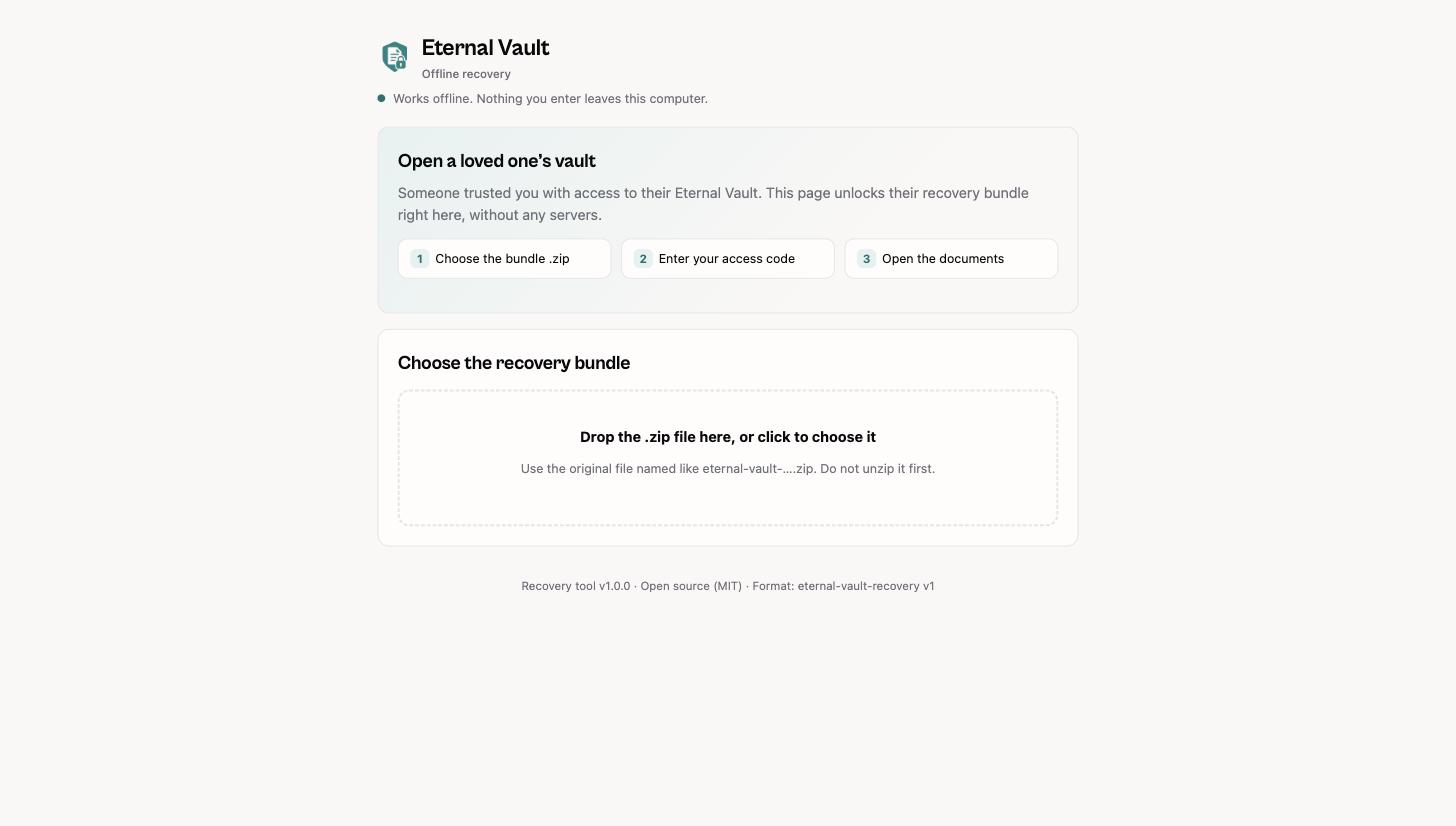
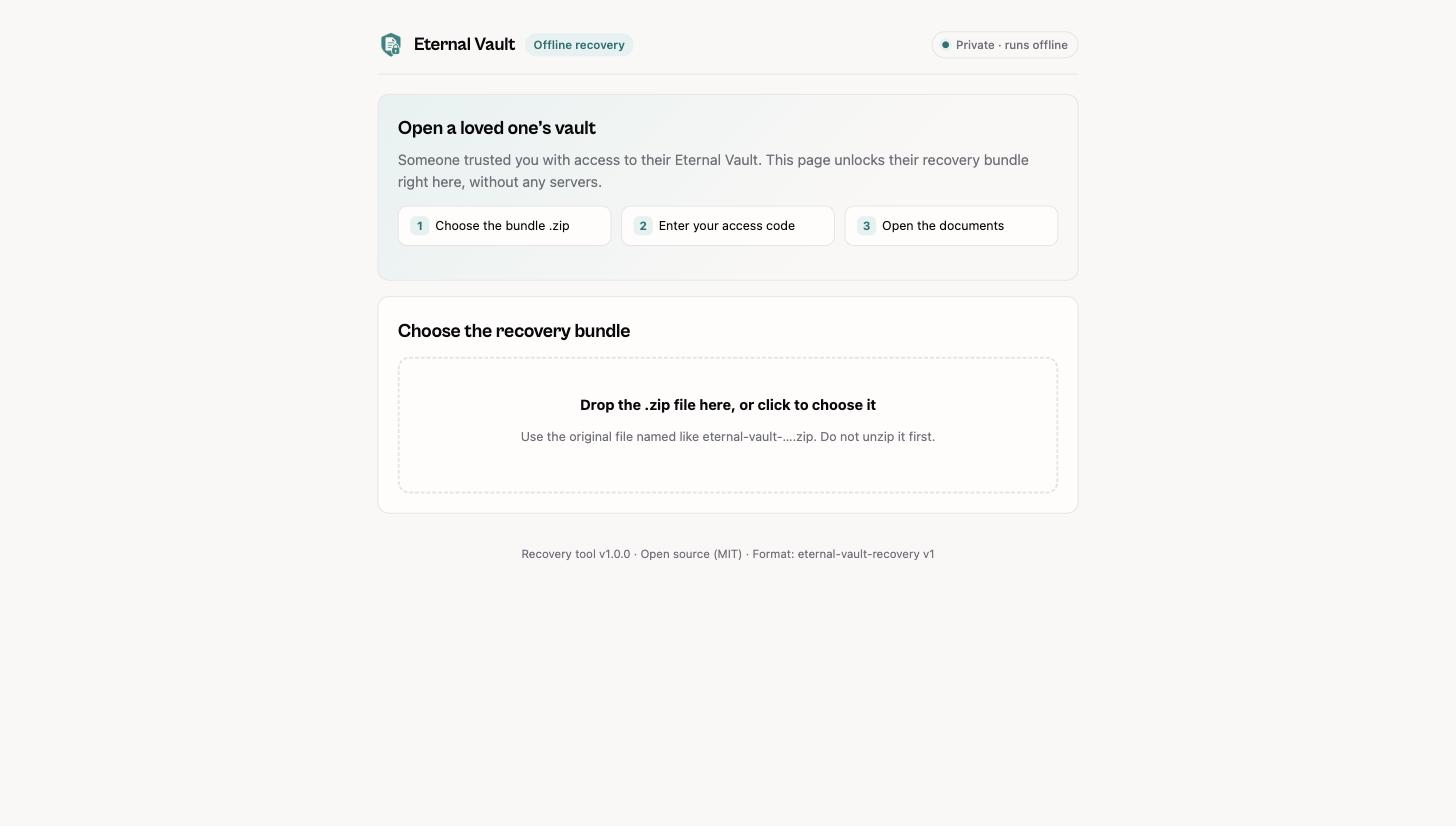
style: :lipstick: compact header bar with brand lockup and offline status badge

diff --git a/src/app/styles.css b/src/app/styles.css
@@ -97,21 +97,73 @@ p {
   margin-top: 16px;
 }
 
-.notice {
+.topbar {
   display: flex;
-  gap: 8px;
   align-items: center;
-  font-size: 13px;
+  justify-content: space-between;
+  gap: 12px;
+  padding-bottom: 16px;
+  border-bottom: 1px solid var(--border);
+}
+
+.brand {
+  display: flex;
+  align-items: center;
+  gap: 10px;
+  min-width: 0;
+}
+
+.brand img {
+  width: 28px;
+  height: 28px;
+  border-radius: 7px;
+  flex: none;
+}
+
+.wordmark {
+  font-family: "Cabinet Grotesk", -apple-system, BlinkMacSystemFont, "Segoe UI", sans-serif;
+  font-weight: 700;
+  font-size: 19px;
+  letter-spacing: -0.01em;
+  white-space: nowrap;
+}
+
+.pill {
+  font-size: 12px;
+  font-weight: 600;
+  color: var(--accent);
+  background: var(--accent-soft);
+  border-radius: 999px;
+  padding: 3px 9px;
+  white-space: nowrap;
+}
+
+.secure {
+  display: inline-flex;
+  align-items: center;
+  gap: 7px;
+  font-size: 12px;
+  font-weight: 500;
   color: var(--muted);
-  margin-top: 6px;
+  border: 1px solid var(--border);
+  border-radius: 999px;
+  padding: 4px 10px;
+  white-space: nowrap;
 }
 
 .dot {
-  width: 8px;
-  height: 8px;
+  width: 7px;
+  height: 7px;
   border-radius: 50%;
   background: var(--good);
+  box-shadow: 0 0 0 3px var(--good-soft);
   flex: none;
+}
+
+@media (max-width: 560px) {
+  .secure {
+    display: none;
+  }
 }
 
 .drop {
@@ -155,25 +207,6 @@ textarea:focus-visible,
 .drop:focus-visible {
   outline: 2px solid var(--accent);
   outline-offset: 2px;
-}
-
-.brand {
-  display: flex;
-  align-items: center;
-  gap: 10px;
-}
-
-.brand img {
-  width: 36px;
-  height: 36px;
-  border-radius: 9px;
-}
-
-.brand small {
-  display: block;
-  font-size: 12px;
-  color: var(--muted);
-  font-weight: 500;
 }
 
 .hero {

diff --git a/src/app/main.ts b/src/app/main.ts
@@ -681,18 +681,22 @@ function render() {
   const { session, unlocked } = state;
   const header = h(
     'header',
-    {},
+    { className: 'topbar' },
     h(
       'div',
       { className: 'brand' },
       h('img', { src: logoUrl, alt: '' }),
-      h('div', {}, h('h1', {}, 'Eternal Vault'), h('small', {}, 'Offline recovery')),
+      h('h1', { className: 'wordmark' }, 'Eternal Vault'),
+      h('span', { className: 'pill' }, 'Offline recovery'),
     ),
     h(
-      'div',
-      { className: 'notice' },
+      'span',
+      {
+        className: 'secure',
+        title: 'This page makes no network requests. Nothing you enter leaves this computer.',
+      },
       h('span', { className: 'dot' }),
-      'Works offline. Nothing you enter leaves this computer.',
+      'Private · runs offline',
     ),
   );
   const content = !session
